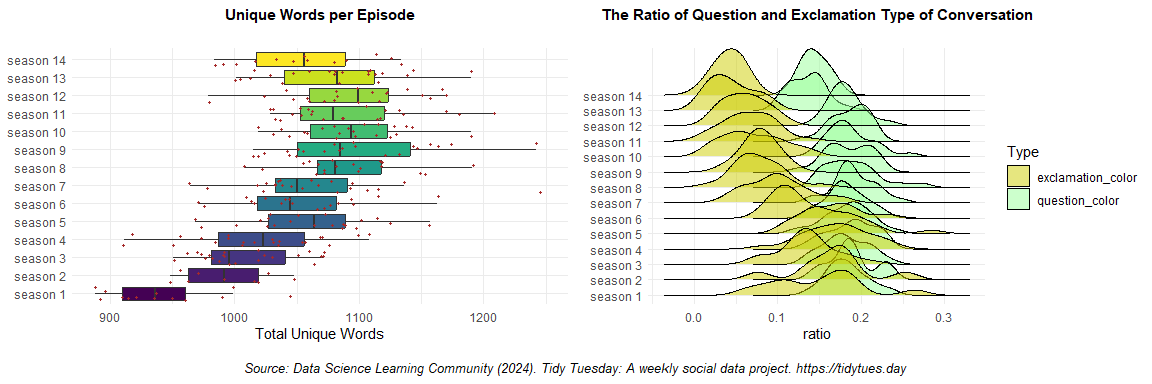
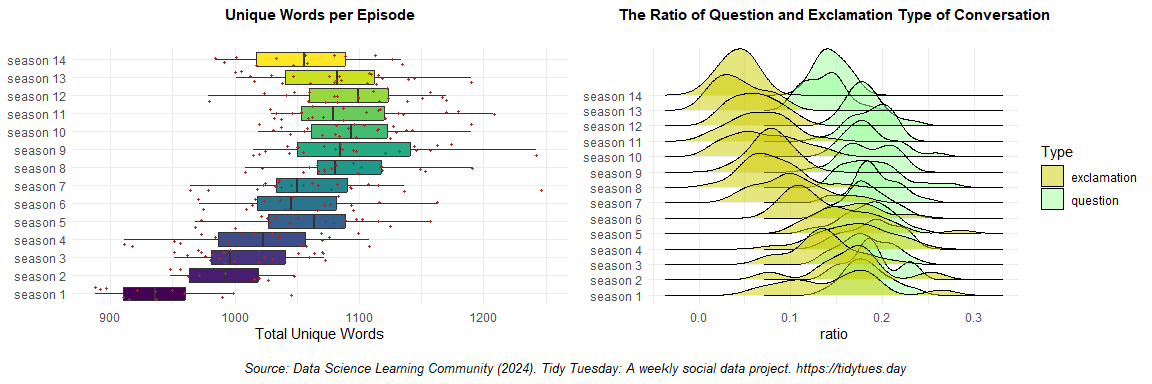
final

diff --git a/tidytuesday/tidytuesday_3_bobsburger/script/tidytuesday_bobsburger.md b/tidytuesday/tidytuesday_3_bobsburger/script/tidytuesday_bobsburger.md
@@ -73,7 +73,7 @@ ratio <- episode_metrics %>%  #use this data
   geom_density_ridges(
     aes(x = question_ratio,        #assign x is the question_ratio
         y = season,                #assign y is the season
-        fill = "question_color"),  #set the color as "question_color" pallete 
+        fill = "question"),  #set the color as "question_color" pallete 
     alpha = 0.5,                   #set the transparency, because data might overlap
     scale = 3                      #set the scale of ridges
   ) +
@@ -81,14 +81,14 @@ ratio <- episode_metrics %>%  #use this data
   geom_density_ridges(
     aes(x = exclamation_ratio,       #assign x is exclamation_ratio
         y = season,                  #assign y is season
-        fill = "exclamation_color"), #set the color as "exclamation_color"
+        fill = "exclamation"), #set the color as "exclamation_color"
     alpha = 0.5,                     #set the transparency
     scale = 3                        #set the scale of ridges
   ) +
   #now assign the color manually
   scale_fill_manual(
-    values = c("question_color" = "palegreen1",  #set the color in question_color
-               "exclamation_color" = "yellow3"), #set the color in exclamation_color
+    values = c("question" = "palegreen1",  #set the color in question_color
+               "exclamation" = "yellow3"), #set the color in exclamation_color
     name = "Type") +                             #assign these as "type" 
   #assign the wording for title and x/y axis
   labs(
